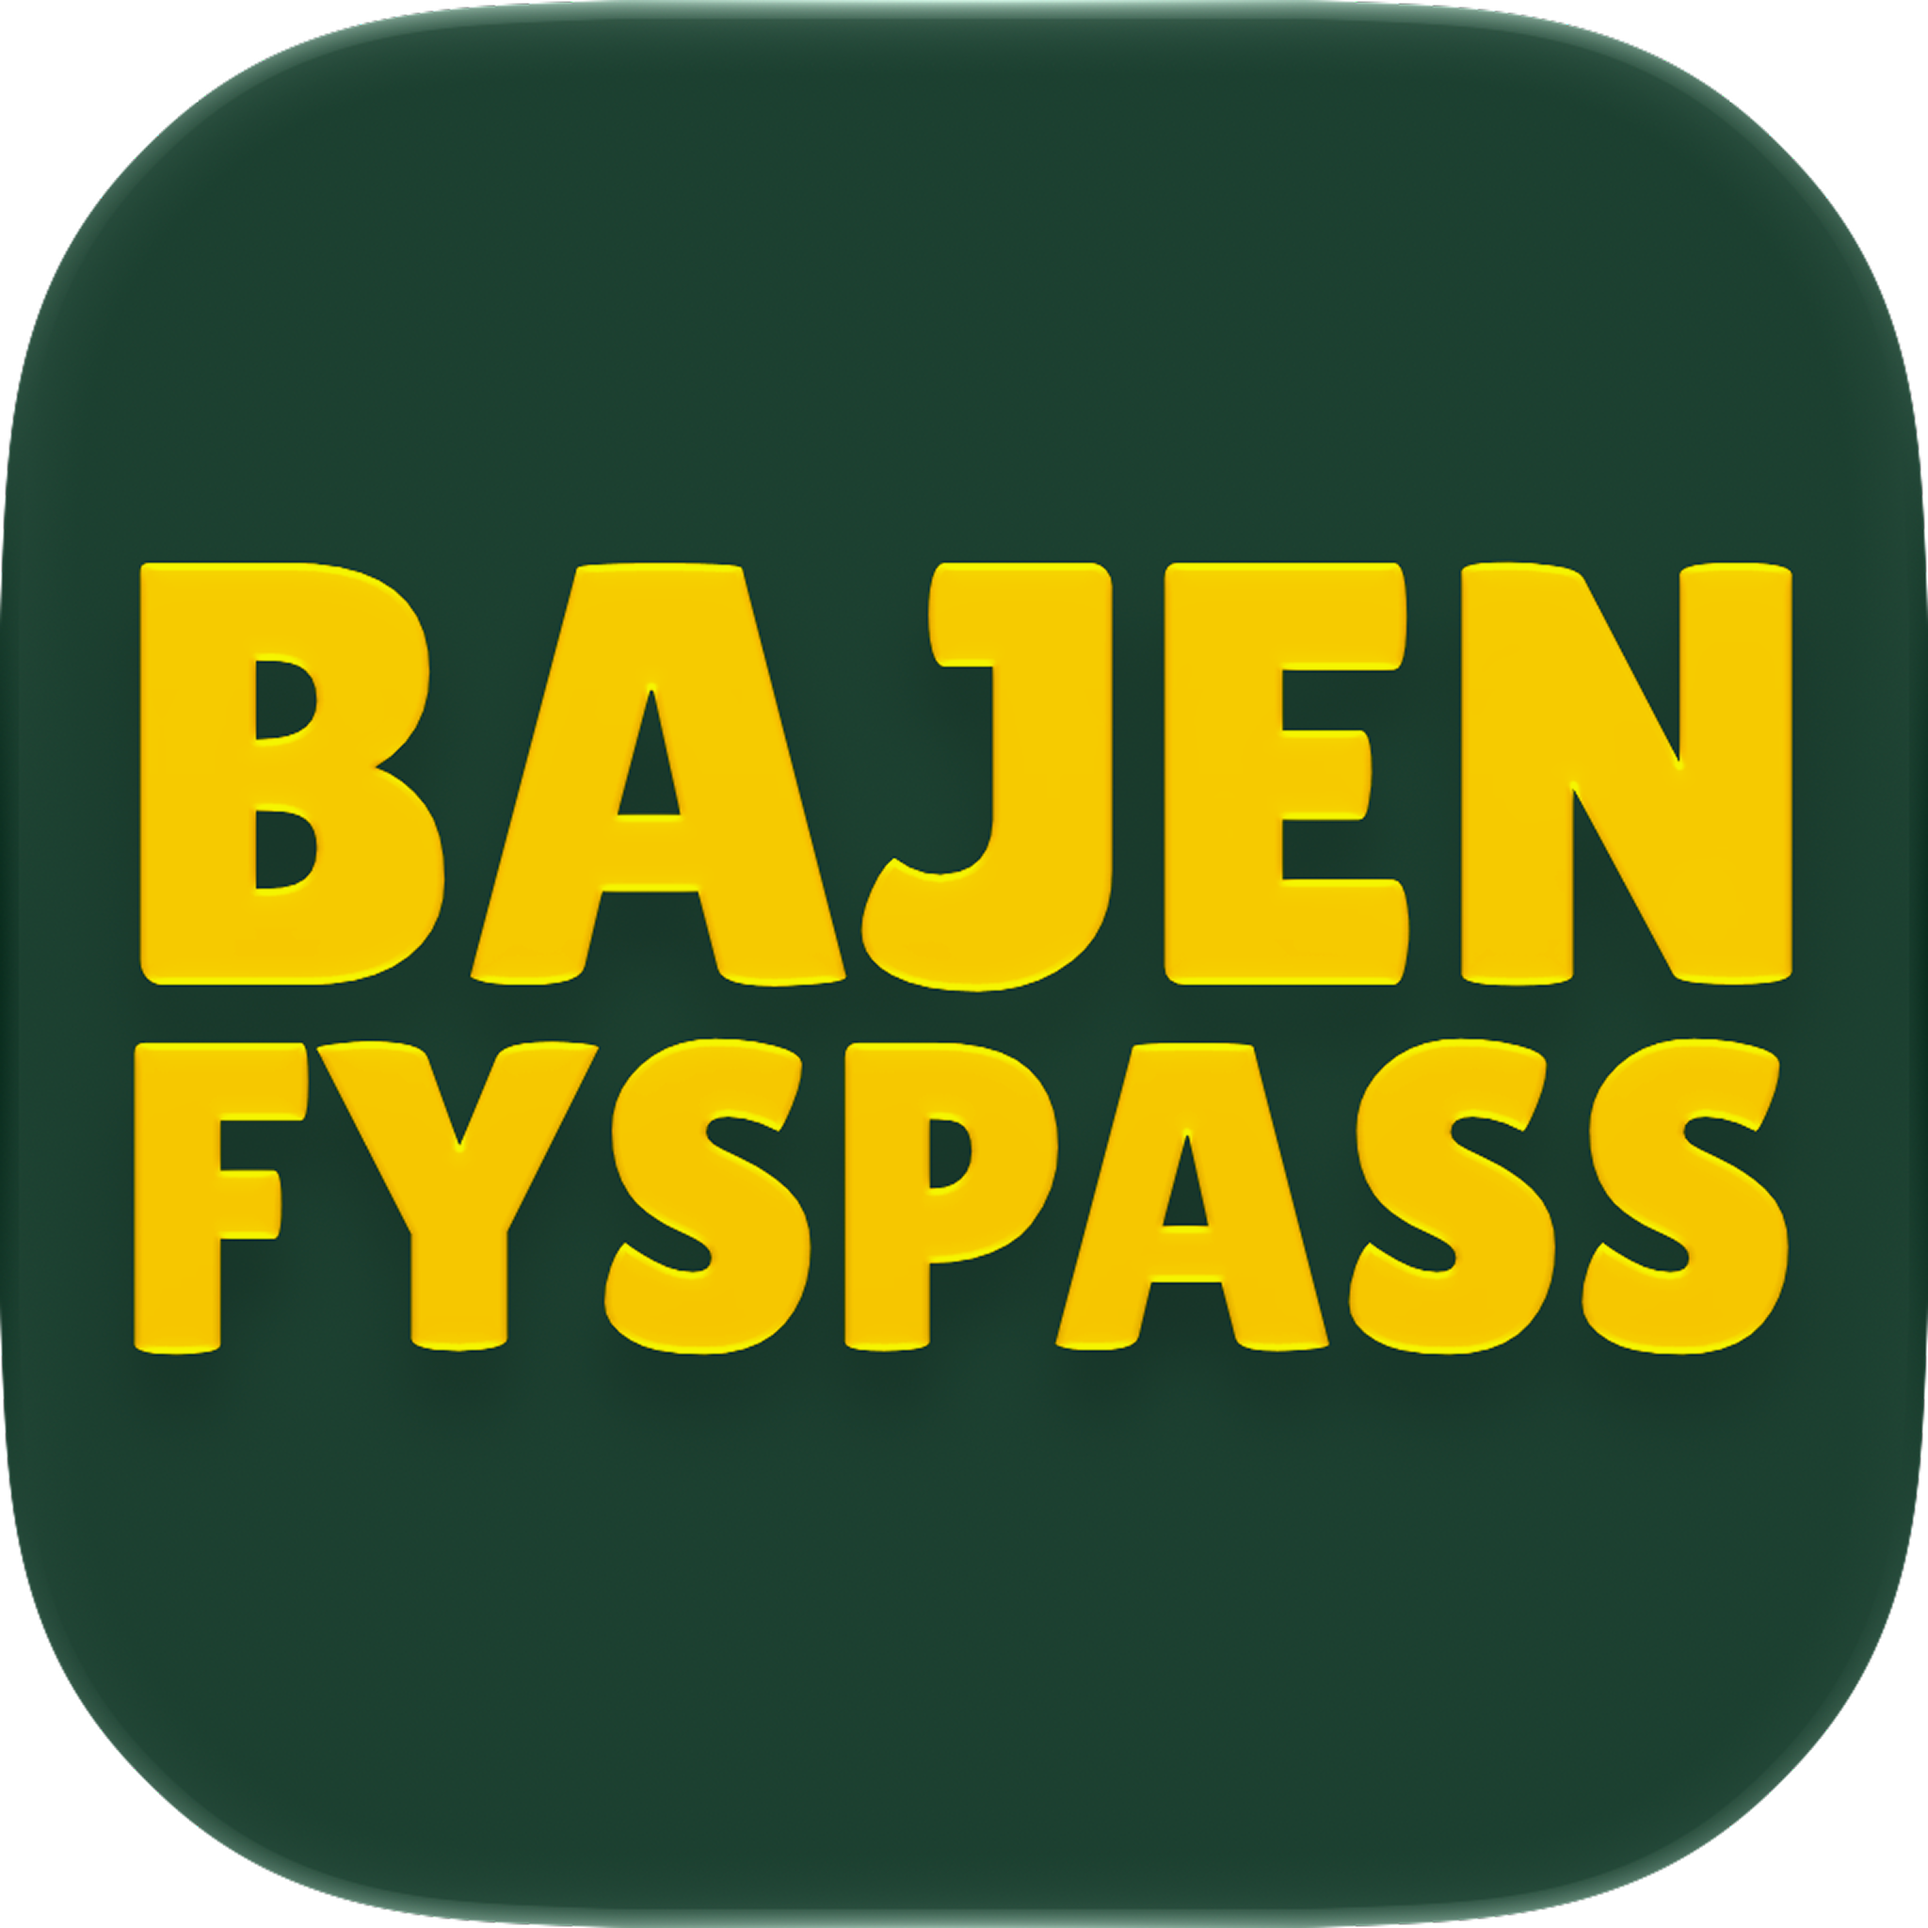
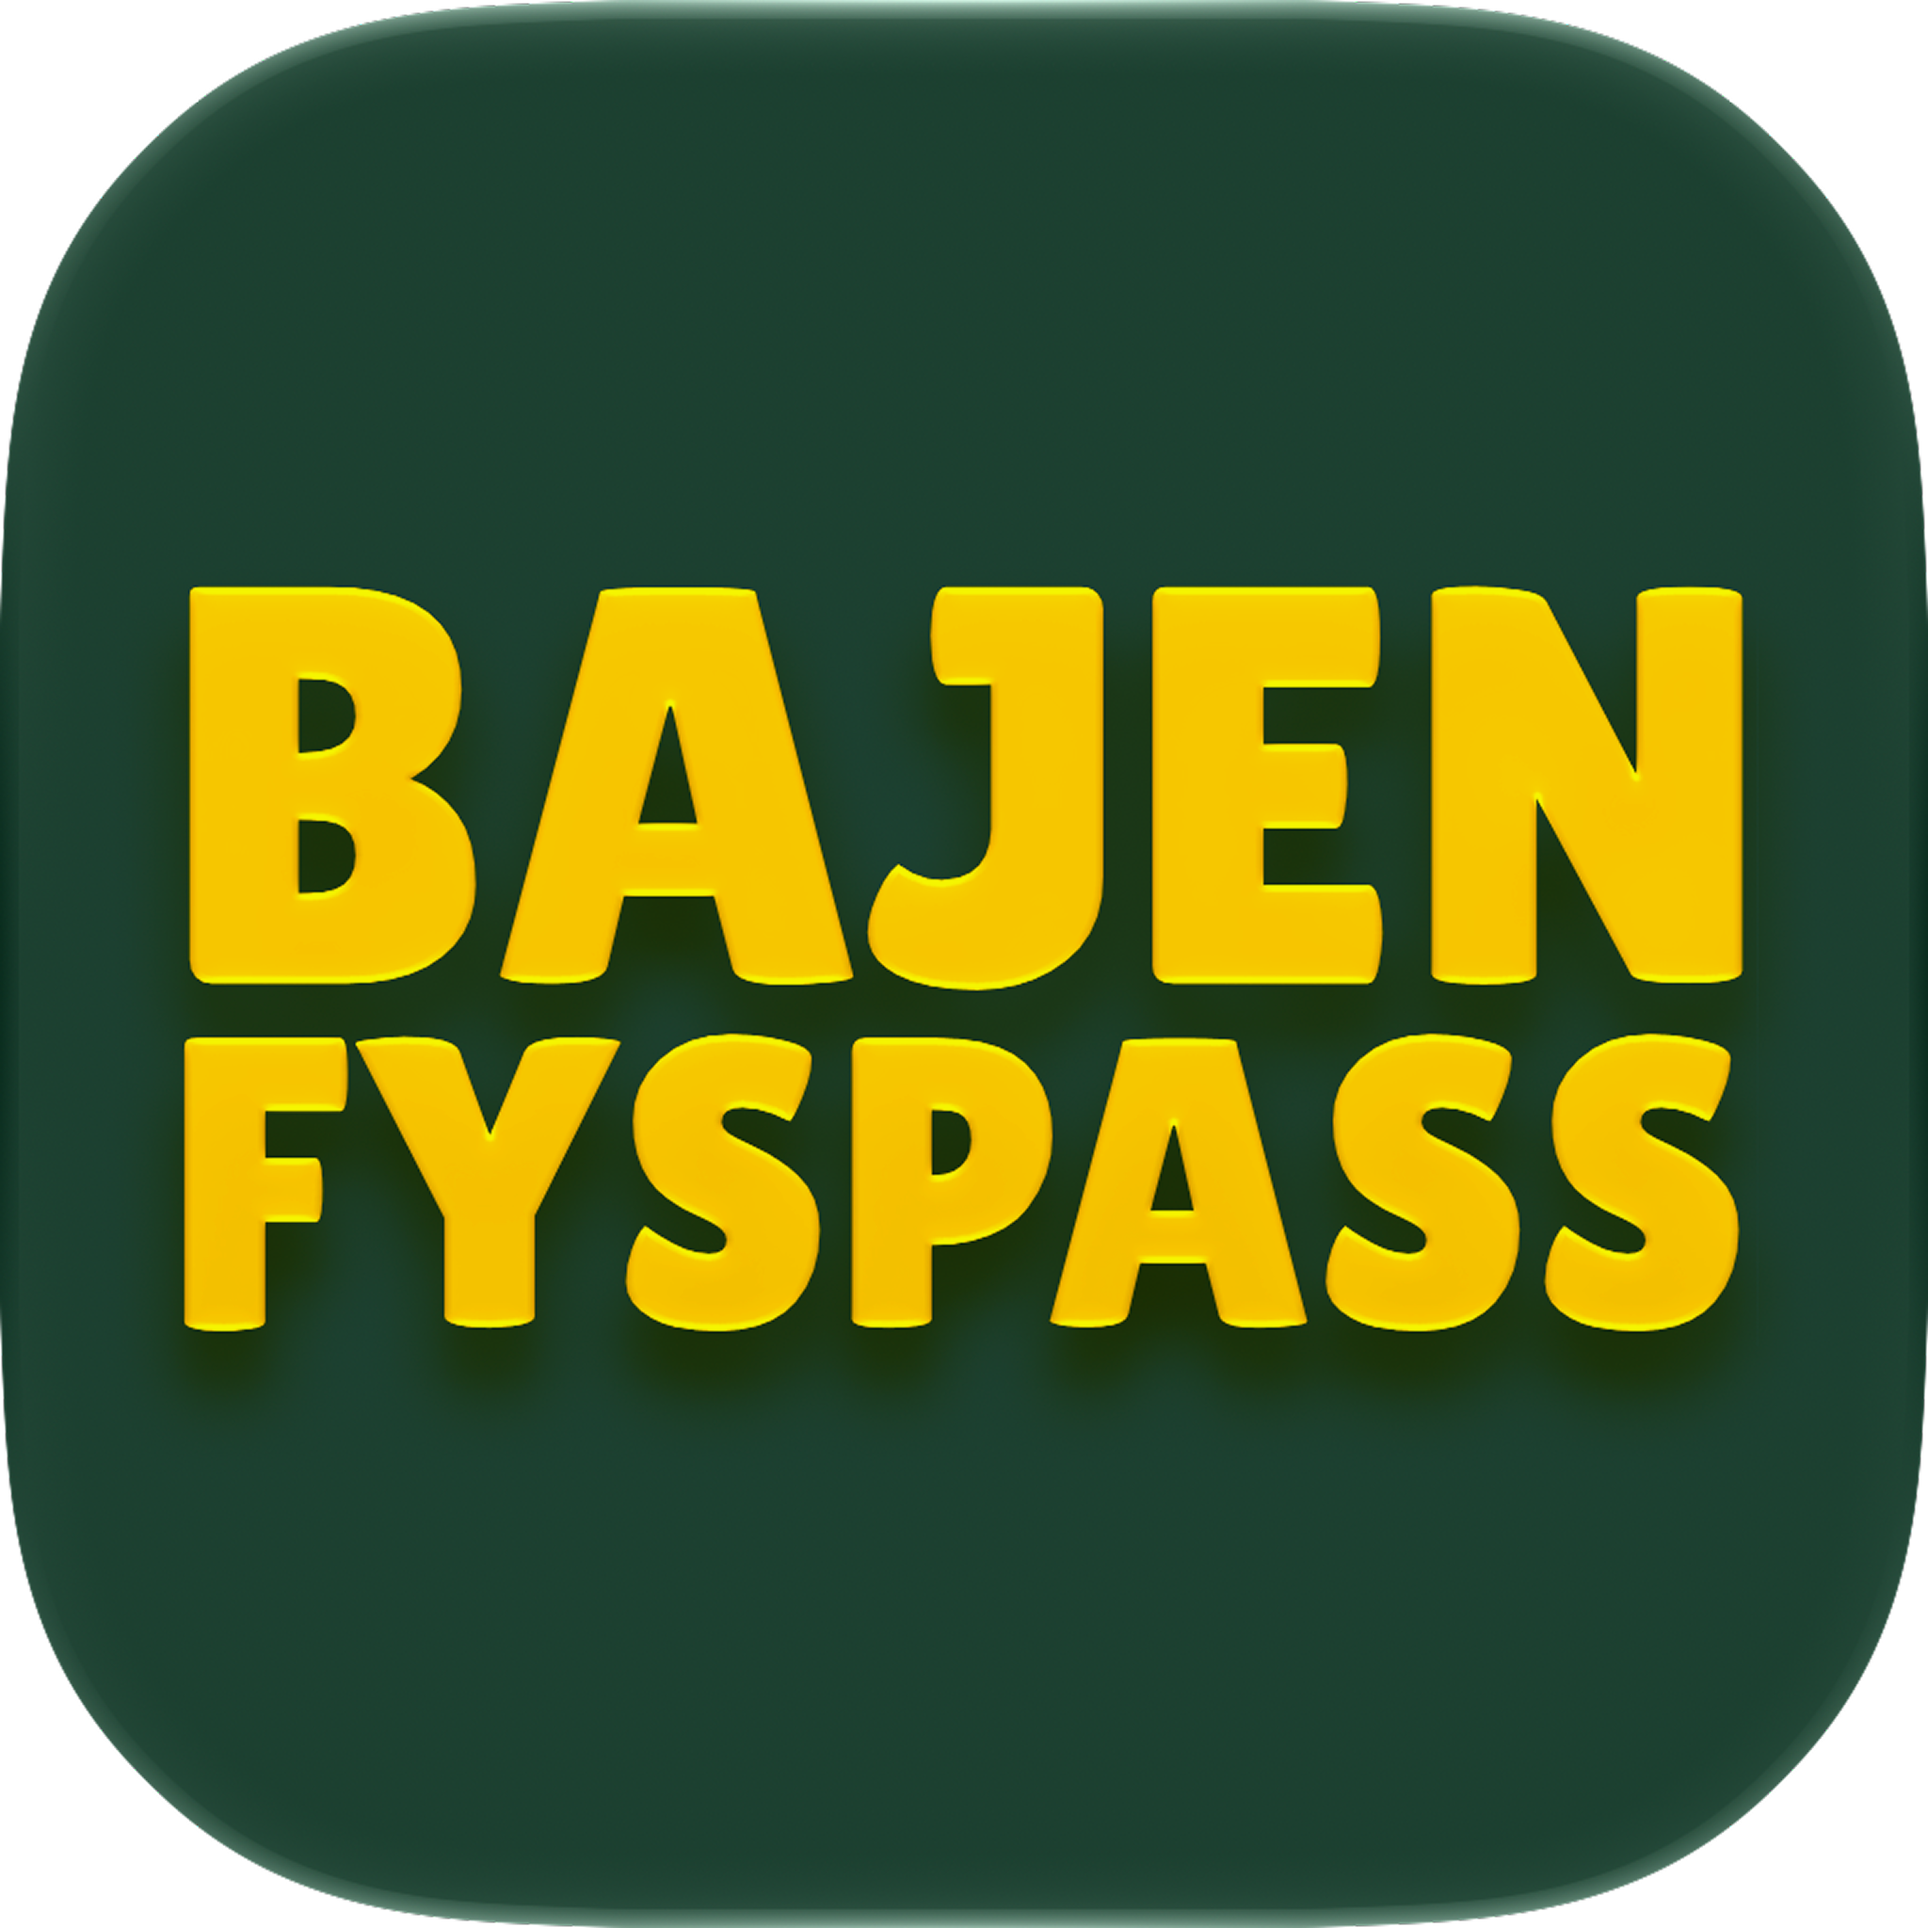
Uppdatera header till "Bajenfys, let's go!" och ny app-ikon

Changed region(s): [[0.0625, 0.2812, 0.9375, 0.7188], [0.4688, 0.3438, 0.5312, 0.4062]]

diff --git a/index.html b/index.html
@@ -349,7 +349,7 @@
 <body>
 
 <header>
-  <h1>Bajenfys</h1>
+  <h1>Bajenfys, let's go!</h1>
 </header>
 
 <!-- SCREEN 1: BUILD -->
